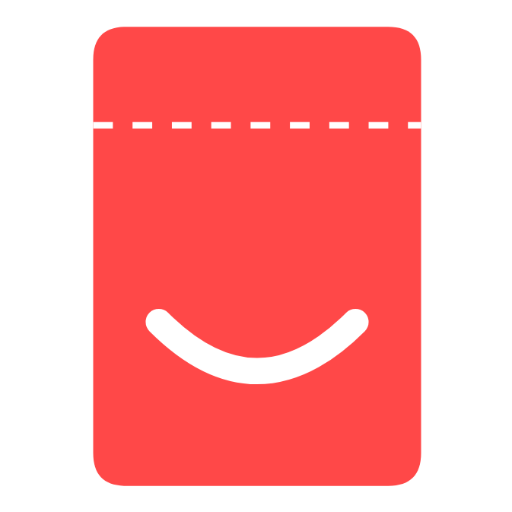
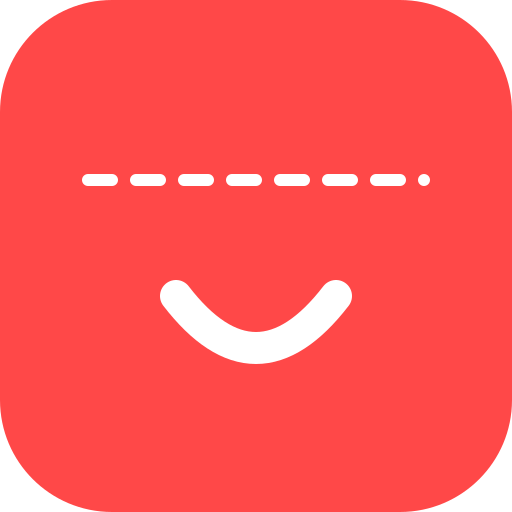
brand: propagate the approved mark, retire the pre-tile ticket glyph everywhere
brand/logo.svg (settled b7303f6, conformed to the tile standard) is the
approved mark, but the actual shipped surfaces still carried an older,
independently-drawn "ticket" glyph that predates it:

- web/public/cackle.svg — the real app's logo, imported by top-bar.jsx,
  header.jsx, hero.jsx and footer.jsx (this is what organisers, scanners and
  attendees actually see, not just the marketing site)
- site/assets/cackle-logo.svg + docs/assets/cackle-logo.svg — the same stale
  glyph, referenced by README.md and site/docs/overview.md
- the landing/docs nav "brand" mark was a SECOND, hand-approximated redraw
  (different stroke widths, different curve control points from brand/
  logo.svg) built from raw SVG paths instead of the real file

Copied brand/logo.svg over all of the above (byte-identical, not redrawn),
replaced the two inline hand-drawn nav glyphs with <img> tags pointing at
the copied asset, added site/assets/favicon.svg and pointed both site
pages' <link rel="icon"> at it instead of the stale glyph, and regenerated
web/public's raster favicons (96px, ICO 16/32/48, apple-touch-icon 180px,
manifest 192/512px) from the same source with rsvg-convert + imagemagick.
Deleted docs/assets/cackle-logo.png, an orphaned raster of the old glyph
with zero references anywhere in the repo.

npm run screenshots re-captured all 26 real app surfaces (light + dark) now
serving the correct mark; make check's site-guards (39 checks: self-contained,
[…]

diff --git a/site/index.html b/site/index.html
@@ -9,7 +9,7 @@
 <meta name="color-scheme" content="dark light">
 <link rel="canonical" href="https://vulos.org/projects/cackle/">
 
-<link rel="icon" href="./assets/cackle-logo.svg" type="image/svg+xml">
+<link rel="icon" href="./assets/favicon.svg" type="image/svg+xml">
 
 <!-- Open Graph. Absolute URLs are mandatory here — scrapers do not resolve
      relative paths — and they point at the deployed route, not at this file. -->
@@ -172,10 +172,9 @@ code,kbd,pre,.mono,.num{font-family:var(--mono);font-variant-numeric:tabular-num
 .hdr-in{display:flex;align-items:center;gap:18px;height:64px}
 .brand{display:inline-flex;align-items:center;gap:11px;font-weight:800;letter-spacing:-.03em;font-size:19px;flex:none}
 .brand .tile{
-  width:31px;height:31px;border-radius:9px;background:var(--red);
-  display:grid;place-items:center;flex:none;box-shadow:0 4px 14px -5px rgba(255,72,72,.7);
+  width:31px;height:31px;border-radius:9px;display:block;flex:none;
+  box-shadow:0 4px 14px -5px rgba(255,72,72,.7);
 }
-.brand .tile svg{width:20px;height:20px;display:block}
 .brand .dot{color:var(--amber)}
 .secnav{display:flex;gap:3px;margin-left:auto;overflow:hidden}
 .secnav a{
@@ -509,12 +508,8 @@ pre .k{color:var(--amber-ink)}
 <header class="hdr">
   <div class="wrap hdr-in">
     <a class="brand" href="./index.html" aria-label="Cackle — home">
-      <span class="tile" aria-hidden="true">
-        <svg viewBox="0 0 128 128" fill="none" aria-hidden="true">
-          <line x1="22" y1="42" x2="106" y2="42" stroke="#fff" stroke-width="7" stroke-dasharray="13 13" stroke-linecap="round"/>
-          <path d="M40 76 Q64 106 88 76" stroke="#fff" stroke-width="13" stroke-linecap="round" fill="none"/>
-        </svg>
-      </span><span>Cackle<span class="dot">.</span></span>
+      <img class="tile" src="./assets/cackle-logo.svg" alt="" width="31" height="31">
+      <span>Cackle<span class="dot">.</span></span>
     </a>
     <nav class="secnav" id="secnav" aria-label="Sections">
       <a href="#how">How it works</a>

diff --git a/site/docs.html b/site/docs.html
@@ -7,7 +7,7 @@
 <meta name="description" content="Cackle documentation — the ticket format, running a gate with no network, clustering, payments, configuration and self-hosting.">
 <meta name="theme-color" content="#0B0B0D">
 <meta name="color-scheme" content="dark light">
-<link rel="icon" href="./assets/cackle-logo.svg" type="image/svg+xml">
+<link rel="icon" href="./assets/favicon.svg" type="image/svg+xml">
 <link rel="stylesheet" href="./assets/style.css">
 <!-- Theme resolved before first paint, from the SAME key the landing writes,
      so following "Docs" out of a light-themed landing does not flash into a
@@ -24,12 +24,8 @@ document.documentElement.setAttribute('data-theme',s==='light'||s==='dark'?s:(ma
 <a class="skip" href="#content">Skip to the chapter</a>
 <header class="site-header"><div class="wrap nav">
     <a class="brand" href="./index.html" aria-label="Cackle — home">
-      <span class="tile" aria-hidden="true">
-        <svg viewBox="0 0 128 128" fill="none" aria-hidden="true">
-          <line x1="22" y1="42" x2="106" y2="42" stroke="#fff" stroke-width="7" stroke-dasharray="13 13" stroke-linecap="round"/>
-          <path d="M40 76 Q64 106 88 76" stroke="#fff" stroke-width="13" stroke-linecap="round" fill="none"/>
-        </svg>
-      </span><span>Cackle<span class="dot">.</span></span>
+      <img class="tile" src="./assets/cackle-logo.svg" alt="" width="31" height="31">
+      <span>Cackle<span class="dot">.</span></span>
     </a>
     <nav class="nav-links" aria-label="Primary">
       <a href="./index.html#how">How it works</a>

diff --git a/site/assets/style.css b/site/assets/style.css
@@ -96,10 +96,9 @@ button{font:inherit;color:inherit;background:none;border:0;cursor:pointer}
 .nav{display:flex;align-items:center;gap:18px;height:64px}
 .brand{display:inline-flex;align-items:center;gap:11px;font-weight:800;letter-spacing:-.03em;font-size:19px;flex:none}
 .brand .tile{
-  width:31px;height:31px;border-radius:9px;background:var(--red);
-  display:grid;place-items:center;flex:none;box-shadow:0 4px 14px -5px rgba(255,72,72,.7);
+  width:31px;height:31px;border-radius:9px;display:block;flex:none;
+  box-shadow:0 4px 14px -5px rgba(255,72,72,.7);
 }
-.brand .tile svg{width:20px;height:20px;display:block}
 .brand .dot{color:var(--amber)}
 .nav-links{display:flex;align-items:center;gap:3px;margin-left:auto}
 .nav-links a{
